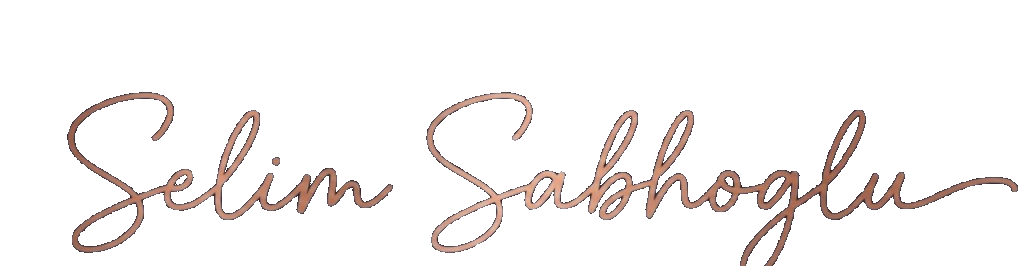
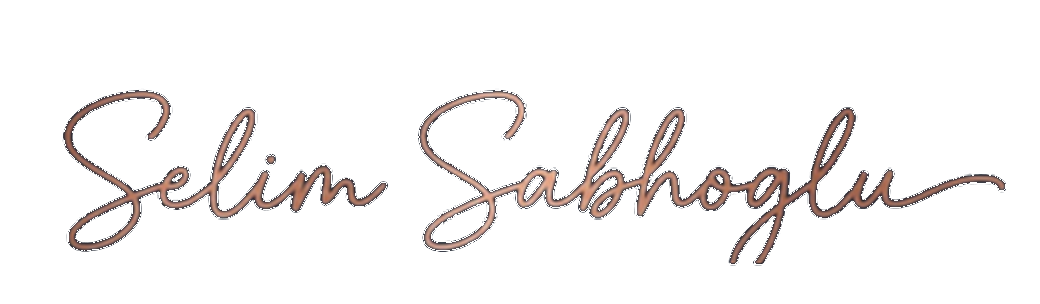
Fix cropped g descender in contact signature image.
Reprocess from reference with safer ink mask and bottom padding.

Changed region(s): [[0.0625, 0.2707, 1.0, 1.0]]

diff --git a/kontakt.html b/kontakt.html
@@ -160,7 +160,7 @@
                     <li>WhatsApp: <a href="schaden-melden.html">Schaden melden</a></li>
                     <li>Pohlweg 76, 33098 Paderborn</li>
                   </ul>
-                  <p class="guide-kontakt__signature"><img class="guide-kontakt__signature-img" src="assets/contact/selim-sabahoglu-signature.png?v=2" alt="Unterschrift Selim Sabahoglu" width="420" height="109" loading="lazy" decoding="async" /></p>
+                  <p class="guide-kontakt__signature"><img class="guide-kontakt__signature-img" src="assets/contact/selim-sabahoglu-signature.png?v=3" alt="Unterschrift Selim Sabahoglu" width="420" height="123" loading="lazy" decoding="async" /></p>
                   <a class="guide-kontakt__cta" href="mailto:sesa-svb@outlook.de">Kontakt aufnehmen →</a>
                 </div>
               </div>

diff --git a/css/styles.css b/css/styles.css
@@ -6422,8 +6422,8 @@ main:has(.guide-kontakt) + .footer {
 
 .guide-kontakt__signature {
   margin: 0.75rem 0 0;
-  padding: 0;
-  line-height: 0;
+  padding: 0 0 0.2rem;
+  line-height: 1;
   overflow: visible;
 }
 

diff --git a/build_site.py b/build_site.py
@@ -12,7 +12,7 @@ LOGO_MONOGRAM = "assets/logo-monogram.png?v=6"
 ABOUT_HERO = "assets/about/about-hero.jpg?v=1"
 ABOUT_PORTRAIT = "assets/portrait-placeholder.png?v=1"
 CONTACT_HERO = "assets/hero-inspection.png"
-SIGNATURE_IMAGE = "assets/contact/selim-sabahoglu-signature.png?v=2"
+SIGNATURE_IMAGE = "assets/contact/selim-sabahoglu-signature.png?v=3"
 KONTAKT_SIGNATURE_STYLE = """
     <style>
       main:has(.guide-kontakt) {
@@ -1269,7 +1269,7 @@ def kontakt_page_body() -> str:
                     <li>WhatsApp: <a href="schaden-melden.html">Schaden melden</a></li>
                     <li>{ADDRESS}</li>
                   </ul>
-                  <p class="guide-kontakt__signature"><img class="guide-kontakt__signature-img" src="{SIGNATURE_IMAGE}" alt="Unterschrift {OWNER}" width="420" height="109" loading="lazy" decoding="async" /></p>
+                  <p class="guide-kontakt__signature"><img class="guide-kontakt__signature-img" src="{SIGNATURE_IMAGE}" alt="Unterschrift {OWNER}" width="420" height="123" loading="lazy" decoding="async" /></p>
                   <a class="guide-kontakt__cta" href="mailto:{EMAIL}">Kontakt aufnehmen →</a>
                 </div>
               </div>
